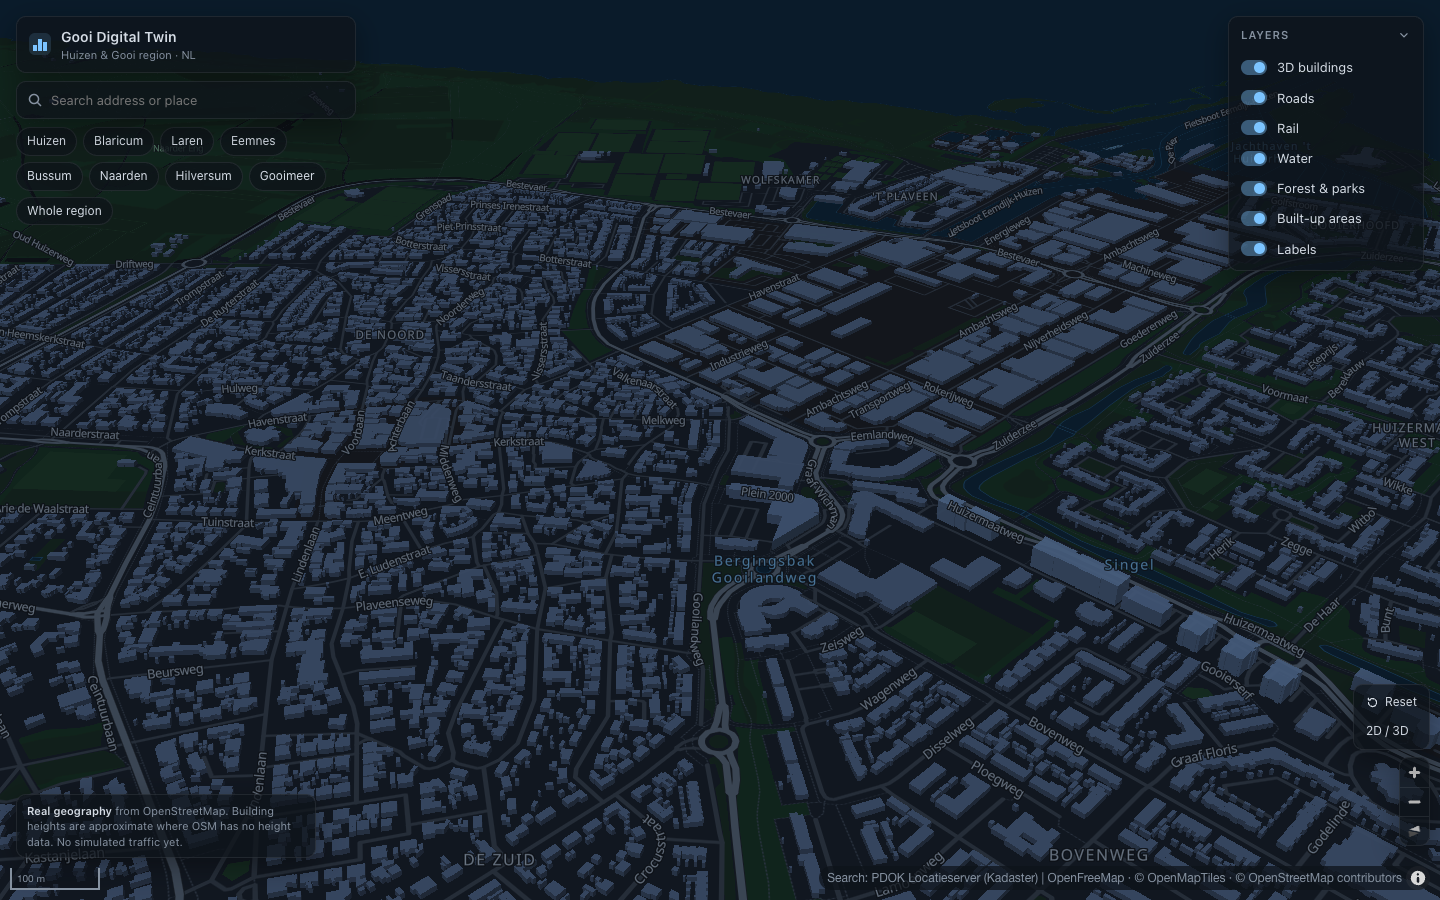
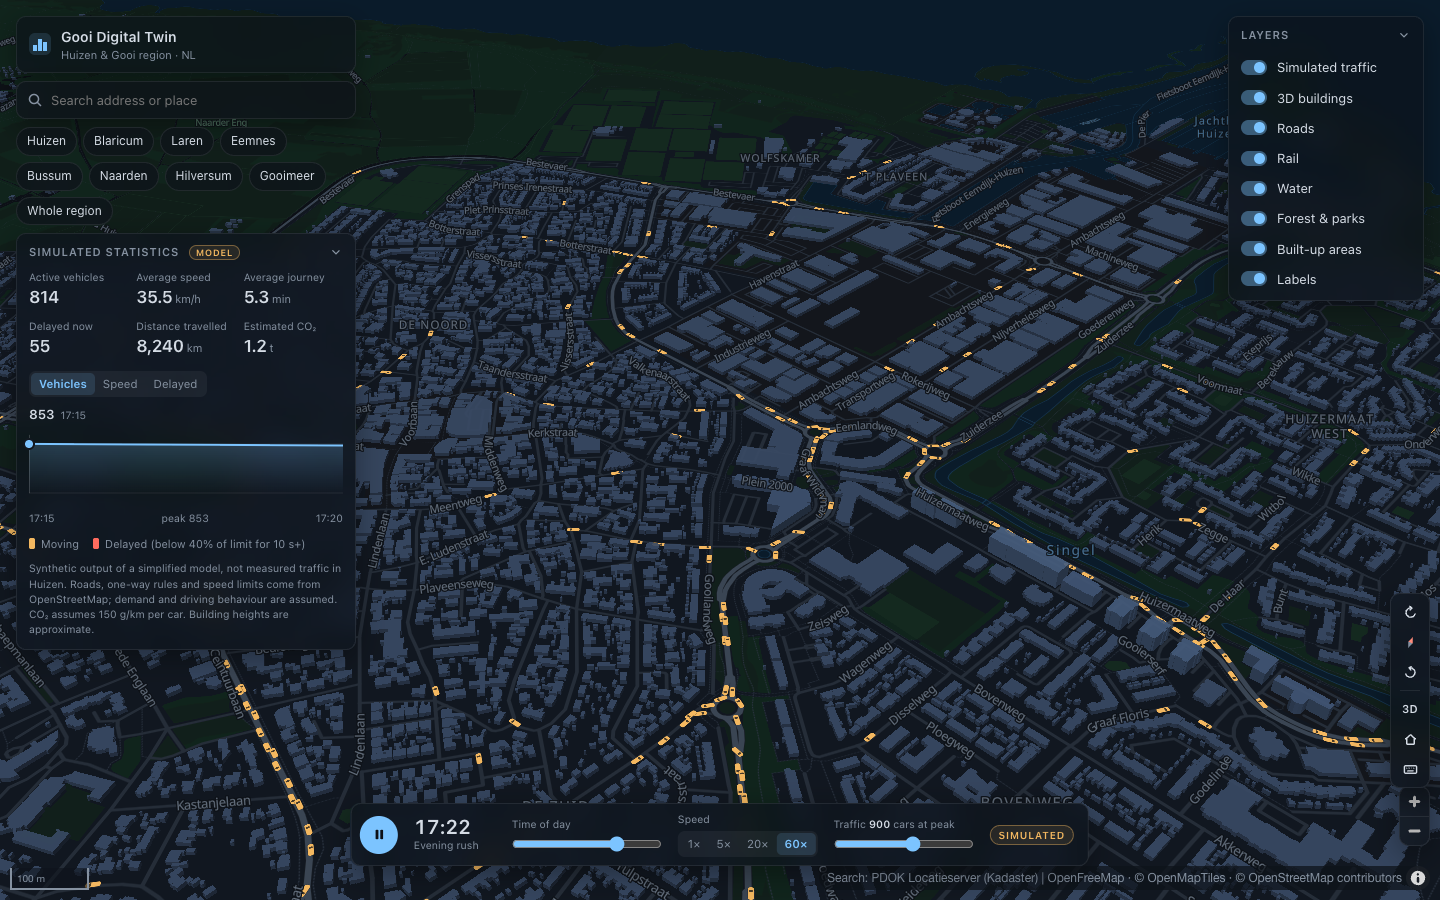
docs: document the traffic simulation, shortcuts and limitations

diff --git a/README.md b/README.md
@@ -4,35 +4,65 @@ Interactive 3D digital twin and urban mobility simulation of Huizen and the Gooi
 
 **Live site:** https://teun-sudo1.github.io/gooi-digital-twin/
 
-![3D view of central Huizen](docs/screenshot-huizen.png)
+![Simulated evening rush hour in Huizen](docs/screenshot-huizen.png)
 
 ## Goals
 
 A living geographic model of Huizen, Blaricum, Laren, Eemnes, Bussum, Naarden, Hilversum and the Gooimeer that can be explored in 3D and extended over time:
 
 1. **Real 3D map** of the region (done: milestone 1).
-2. **Living city:** a simplified, clearly labelled *simulated* traffic model on the real road network.
+2. **Living city:** a simplified, clearly labelled *simulated* traffic model on the real road network (done: milestone 2).
 3. **Interactive infrastructure:** road closures, speed limits, cycle paths, bus lanes and housing scenarios that change the simulation, with the original scenario always restorable.
 
 Everything runs in the browser as a static site. There is no backend.
 
-## Features (milestone 1)
+## Features
+
+### Map
+
 
 - Dark 3D map centred on Huizen, limited to the wider Gooi region
 - Extruded buildings using OpenStreetMap height data
 - Roads by class, rail, water, forests, parks and Dutch place and street labels
-- Smooth pan, zoom, pitch and rotate; 2D/3D toggle; reset camera
+- Smooth pan, zoom, pitch and rotate; rotate buttons (tap or hold), compass, 2D/3D toggle and reset camera
+- Keyboard shortcuts (press `?` in the app)
 - One-click views of every Gooi town and the whole region
 - Address and place search through the PDOK Locatieserver, biased towards Huizen
 - Collapsible layer panel
 - Camera position kept in the URL hash, so views can be shared
 - Loading, error and no-WebGL states; works at phone width
 
+### Simulated traffic
+
+- Cars drive on the real drivable road network of Huizen (about 200 km, from OpenStreetMap), following road geometry, one-way streets and roundabouts
+- Each car takes the fastest route between an origin and a destination, turning at real junctions
+- Speeds follow OSM speed limits with per-driver variation. Cars brake for corners, keep a time gap to the car ahead, and follow Dutch right of way: side roads give way, roundabout traffic goes first, and on equal roads traffic from the right has priority. Queues form on their own.
+- A weekday demand profile with morning and evening rush hours. Morning trips mostly leave residential streets for main roads and the edges of town; evening trips return.
+- Play/pause, a simulation clock and time-of-day scrubber, playback speed (1×–60×) and traffic density (100–1,500 cars at peak)
+- A dashboard of **simulated** statistics: active vehicles, average speed, average journey time, delayed vehicles, distance travelled and estimated CO₂, plus a trend chart
+- Delayed cars are shown in red on the map
+
+![Close-up of simulated cars queuing on Eemlandweg](docs/screenshot-closeup.png)
+
+### Keyboard shortcuts
+
+| Key | Action |
+| --- | --- |
+| `Q` / `E` (hold) | Rotate left / right |
+| `N` | Face north |
+| `T` | Toggle 2D / 3D |
+| `H` | Reset view to Huizen |
+| `Space` | Play / pause simulation |
+| `/` | Focus search |
+| `?` | Show shortcuts |
+
 ![Regional overview](docs/screenshot-region.png)
 
 ## Technology
 
-React 19 · TypeScript · Vite · MapLibre GL JS 6 · Zustand · Turf.js (for the simulation) · oxlint
+React 19 · TypeScript · Vite · MapLibre GL JS 6 · Zustand · Vitest · oxlint
+
+The trend chart is a small hand-written SVG component, so no charting library is needed.
 
 ## Getting started
 
@@ -50,6 +80,8 @@ npm run dev        # http://localhost:5173
 | `npm run preview` | Serve the production build at http://localhost:4173/gooi-digital-twin/ |
 | `npm run typecheck` | TypeScript only |
 | `npm run lint` | oxlint |
+| `npm test` | Unit tests for routing and the traffic model (Vitest) |
+| `npm run fetch-roads` | Re-download the Huizen road network from OpenStreetMap (see below) |
 
 No API keys or environment variables are needed.
 
@@ -59,22 +91,35 @@ No API keys or environment variables are needed.
 src/
   components/        UI: top bar, search, layer panel, camera controls, overlays
   features/map/      MapLibre map, dark style, layer groups, camera helpers
-  features/simulation/  (milestone 2)
+  features/simulation/  Road graph, A* routing, traffic model, map rendering controller
   features/scenarios/   (milestone 3)
   data/              Place presets and region bounds
-  hooks/             React hooks (map instance)
-  store/             Zustand app state (layers, map status)
+  hooks/             React hooks: map instance, keyboard shortcuts, simulation lifecycle
+  store/             Zustand state: map and layers, simulation controls and statistics
+public/data/         huizen-roads.json, the routable road network (generated)
+scripts/             fetch-roads.mjs, which builds the road network from OpenStreetMap
   types/             Domain types: geography, roads, vehicles, routes, scenarios
   utils/             PDOK geocoder client
 ```
 
-Camera movement is handled entirely inside MapLibre, so panning and zooming never re-render React. Vehicles will be drawn through map layers, not DOM elements.
+Camera movement is handled entirely inside MapLibre, so panning and zooming never re-render React. The traffic model (`engine.ts`) is plain TypeScript with no map or DOM code, so it can be unit-tested. The controller steps it in a `requestAnimationFrame` loop and draws every car through a single GeoJSON symbol layer, with no DOM element per car. React receives throttled statistics about four times a second.
+
+### How the simulation works
+
+1. `scripts/fetch-roads.mjs` queries the Overpass API once for drivable OSM roads in Huizen. It splits them at junctions, applies one-way and roundabout rules, reads `maxspeed` tags (99% of segments have one) and keeps the largest strongly connected network, so every trip can be completed. The result is committed as `public/data/huizen-roads.json` (~160 KB gzipped).
+2. In the browser, the network is projected to local metres and turned into a directed graph.
+3. Demand: the number of cars follows a stylised weekday profile scaled by the density slider. Origins and destinations depend on the time of day. About 15% of trips are through traffic between the points where main roads leave the modelled area.
+4. Routing: A* on free-flow travel time.
+5. Driving: each car accelerates towards its preferred speed and brakes for corners, junctions where it must give way, its destination, and the car ahead (time-gap following). Cars below 40% of the speed limit for over 10 simulated seconds count as delayed.
+
+To refresh the road data: `npm run fetch-roads`, review the diff, then commit.
 
 ## Data sources and attribution
 
 | Data | Source | Licence |
 | --- | --- | --- |
 | Roads, buildings, water, land use, labels | [OpenStreetMap](https://www.openstreetmap.org/copyright) contributors, via [OpenMapTiles](https://openmaptiles.org/) vector tiles hosted by [OpenFreeMap](https://openfreemap.org/) | ODbL (data), OpenMapTiles schema (CC-BY) |
+| Road network for the simulation | [OpenStreetMap](https://www.openstreetmap.org/copyright) contributors, via the [Overpass API](https://overpass-api.de/) | ODbL 1.0 |
 | Address and place search | [PDOK Locatieserver](https://www.pdok.nl/) (Kadaster: BAG, BRT) | Dutch government open data (CC0 / CC BY 4.0) |
 
 Attribution is shown in the map's attribution control. OpenFreeMap and PDOK are free public services, so please keep usage reasonable.
@@ -85,17 +130,21 @@ Attribution is shown in the map's attribution control. OpenFreeMap and PDOK are 
 - Building footprints and roads are as complete as OpenStreetMap is.
 - Vector tiles stop at zoom 14 and are overzoomed beyond that, which is fine for buildings and roads.
 - The Netherlands is flat, so there is no terrain elevation model.
-- No traffic simulation yet. When it arrives, all traffic figures will be **simulated**, not observations of real traffic in Huizen.
+- **All traffic is simulated.** Vehicle counts, speeds, journey times, delays and emissions come from a simplified model with assumed demand. They are not observations or predictions of real traffic in Huizen.
+- The model has no traffic lights, lanes, turn restrictions, parking, buses, bicycles or pedestrians. Junctions use simple give-way rules.
+- Traffic is modelled only inside Huizen. Cars enter and leave where main roads cross the edge of the area.
+- CO₂ is a rough estimate: distance × an assumed 150 g/km per car.
+- Cars are drawn larger than true scale when zoomed out, so they stay visible.
 
 ## Roadmap
 
 - [x] Milestone 1: interactive 3D map of Huizen and the Gooi region
-- [ ] Milestone 2: road graph from OSM, animated vehicles, simulation clock, time-of-day demand, dashboard of simulated statistics
-- [ ] Milestone 3: road closures that reroute traffic, speed limits, cycle paths, bus lanes, pedestrian zones, housing developments, scenario comparison
+- [x] Milestone 2: road graph from OSM, animated vehicles, simulation clock, time-of-day demand, dashboard of simulated statistics
+- [ ] Milestone 3: road closures that reroute traffic (the engine already supports closures and rerouting; UI to follow), speed limits, cycle paths, bus lanes, pedestrian zones, housing developments, scenario comparison
 
 ## Deployment (GitHub Pages)
 
-Every push to `main` runs [.github/workflows/deploy.yml](.github/workflows/deploy.yml). It lints, builds and publishes `dist/` to GitHub Pages with the official Pages actions.
+Every push to `main` runs [.github/workflows/deploy.yml](.github/workflows/deploy.yml). It lints, tests, builds and publishes `dist/` to GitHub Pages with the official Pages actions.
 
 - `vite.config.ts` sets the base path to `/gooi-digital-twin/` for builds, so assets load from the repository sub-path. The dev server still uses `/`.
 - One-time setup (already done for this repo): **Settings → Pages → Build and deployment → Source: GitHub Actions**.

diff --git a/src/features/simulation/README.md b/src/features/simulation/README.md
@@ -1,8 +1,10 @@
-# Simulation (milestone 2)
+# Simulation
 
-Planned: a browser-side traffic simulation on a routable graph of the Huizen road
-network. The graph will be built from OpenStreetMap once, by a script, and stored
-as static GeoJSON in `src/data/`. Vehicles will be rendered through one MapLibre
-GeoJSON source, not one DOM element per car.
+Simulated traffic on the real Huizen road network. Every number produced here is
+model output, not measured traffic.
 
-Domain types are already defined in `src/types/simulation.ts`.
+- `graph.ts`: loads `public/data/huizen-roads.json` and builds a directed graph in local metres
+- `routing.ts`: A* fastest-route search, with optional closed segments
+- `engine.ts`: demand, trip generation, car-following, right of way and statistics (no DOM or map code)
+- `controller.ts`: animation loop, map layer for the cars, throttled stats for React
+- `simulation.test.ts`: unit tests on a tiny synthetic network and on the real data

diff --git a/src/features/scenarios/README.md b/src/features/scenarios/README.md
@@ -2,4 +2,6 @@
 
 Planned: interventions such as road closures and speed-limit changes that modify
 the road graph used by the simulation, with the option to restore the baseline.
+The engine already supports this: `TrafficSimulation.setClosedSegments()` closes
+segments and reroutes affected cars (covered by a unit test). The UI is still to come.
 See the `Intervention` and `Scenario` types in `src/types/simulation.ts`.
